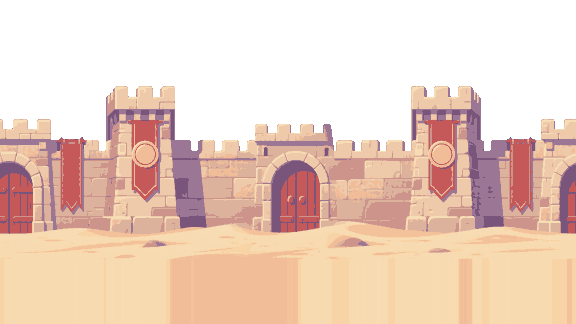
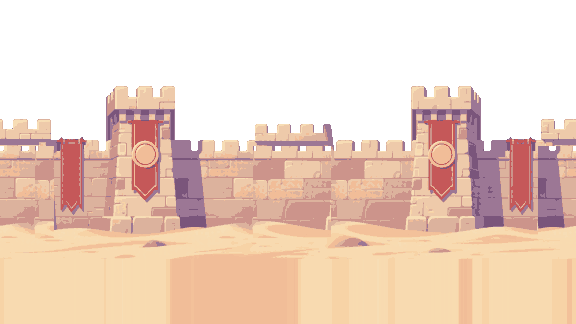
Queue row 8c done: the City Gates are a passage the hero walks through (D314, D315)
A shared gate_passage.tscn replaces the D258 facade: generated towers and
bridge drawn over the hero (z 20), the darker passage wall with both gate
leaves open behind him, a warm light toward the City. The same scene stands in
CityGates and at the City's west end; the cell edge falls inside the passage,
so the room change happens under the bridge. The painted gates in the wall
plane are walled up (comfy_backdrop.py patch); guards and the fight's spawn
points moved west of the towers. verify_city_gates_raid [8] drives real
move_right through the passage into the City.

Claude-Session: https://claude.ai/code/session_01A2gnDWaoeJGbj3GPH4dnCF

Changed region(s): [[0.4375, 0.4321, 0.5938, 0.7407], [0.0, 0.4321, 0.0938, 0.7407], [0.9062, 0.4321, 1.0, 0.7407]]

diff --git a/Scripts/Tools/comfy_backdrop.py b/Scripts/Tools/comfy_backdrop.py
@@ -149,31 +149,55 @@ LAYERS = {
         fill=True,
         haze=0.15,
         colors=14,
+        # намальовані ворота в мурі — за брамою-проходом (D314) читались як друга брама: замуровані стіною поруч
+        patch=[(333, 253, 78, 146, 238), (180, 538, 92, 146, 238)],
         prompt="a massive sandstone city wall with crenellations and two tall square gate towers flanking a big arched "
         "wooden gate, long red banners with a plain golden disc with a raised rim, the wall stands directly on bare sand, spanning the full width and reaching the bottom "
         f"edge, {CHROMA}",
     ),
-    # Ворота міста (BACKLOG feedback 18): окремий предмет у кінці дороги — до нього біжать бандити.
-    "Gates/gen_gate": dict(
-        seed=61,
+    # Брама як прохід (черга 8c, D314): герой іде крізь неї. Передній шар — дві вежі й міст над проходом, малюється
+    # над героєм; прохід між ними прозорий до самої землі (open). У CityGates і в City стоїть та сама картинка: межа
+    # кімнат — на ~70 % проходу. Замінила gen_gate (D258) — фасад брами, що читався як задник.
+    "Gates/gen_passage_front": dict(
+        seed=83,
         rows=220,
         top=0,
         seam="none",
         trim=True,
-        holes=True,  # прохід за відчиненими стулками ключ вирізав наскрізь
-        cut=(138, 446),  # лише брама з вежами: стіни обабіч обриваються посеред кімнати
-        keep=183,  # нижче — бруківка, яку модель домальовує під брамою
+        open=True,  # прохід під мостом — прозорий до низу: за героєм видно gen_passage_back
+        cut=(57, 521),  # лише вежі й міст: стіни обабіч накривали б бій на дорозі
+        keep=204,  # нижче — пісок, який модель стелить під вежами
         key="green",
         shade=0,
         fill=False,
         haze=0,
         colors=16,
         quant="octree",
-        prompt="one single grand desert city gatehouse: two tall square sandstone towers with crenellated tops flanking "
-        "a high pointed arch, the heavy wooden gate doors standing open showing a dark passage, long red banners with a "
-        "plain golden disc with a raised rim hanging on the towers, carved ornaments around the arch, standing alone in "
-        "the middle of the frame with empty space on both sides, its base resting on the bottom edge, warm light on the "
-        f"top, cool violet shadows in the recesses, {CHROMA}",
+        prompt="one single massive desert city gateway frame seen straight on as a flat elevation with no perspective: two "
+        "thick square sandstone towers with crenellated tops standing at the far left edge and at the far right edge, joined "
+        "high above by a thick straight crenellated stone wall bridge with a row of carved stone blocks along its underside, "
+        "the wide space between the two towers under the bridge completely empty and open down to the ground, showing the "
+        "flat background through it, red banners with a plain golden disc with a raised rim on the towers, filling the full "
+        f"width of the frame, the towers resting on the bottom edge, warm light on the top, cool violet shadows, {CHROMA}",
+    ),
+    # Стіна проходу за героєм: відчинені стулки брами, смолоскип; у сцені темніша (modulate) і обрізана по проходу.
+    "Gates/gen_passage_back": dict(
+        seed=85,
+        rows=220,
+        top=0,
+        seam="none",
+        crop=True,
+        key=None,
+        shade=0,
+        fill=False,
+        haze=0,
+        colors=16,
+        quant="octree",
+        prompt="a perfectly flat straight-on swatch of an old sandstone block wall in deep cool violet shadow, large "
+        "rectangular stone blocks laid in even horizontal rows filling the whole frame edge to edge, a heavy brown wooden "
+        "gate door leaf with iron bands standing open and lying flat against the wall on the left third, a small iron wall "
+        "torch with a warm orange flame casting a soft warm glow on the stones in the middle, a strip of flat paving stones "
+        "along the bottom edge, no perspective, no depth, no arches",
     ),
     "City/gen_far": dict(
         seed=61,
@@ -684,7 +708,9 @@ def shrink(img, key, spill=0, block=SCALE):
     if key:
         bg = np.median(img[:24].reshape(-1, 3), axis=0)
         a = (np.linalg.norm(img - bg, axis=2) > KEY_DISTANCE).astype(np.float32)
-    if spill and key == "green":  # тінь, яку модель кладе на зелене тло (оливкова), — геть
+    if (
+        spill and key == "green"
+    ):  # тінь, яку модель кладе на зелене тло (оливкова), — геть
         a *= img[..., 1] - np.maximum(img[..., 0], img[..., 2]) < spill
     elif spill:
         a *= np.minimum(img[..., 0], img[..., 2]) - img[..., 1] < spill
@@ -807,7 +833,15 @@ if __name__ == "__main__":
         opaque[layer["top"] : layer["top"] + len(strip)] = strip_opaque
         if layer["fill"]:
             rgb, opaque = fill_down(rgb, opaque)
-        if layer.get("holes"):  # дірки всередині предмета — найтемнішим його кольором (темний прохід)
+        if layer.get(
+            "open"
+        ):  # прохід, вирізаний ключем, — прозорий і нижче, до низу (там модель домалювала далечінь)
+            hole = holes(opaque)
+            for x in np.nonzero(hole.any(axis=0))[0]:
+                opaque[np.argmax(hole[:, x]) :, x] = False
+        if layer.get(
+            "holes"
+        ):  # дірки всередині предмета — найтемнішим його кольором (темний прохід)
             hole = holes(opaque)
             rgb[hole] = rgb[opaque][np.argmin(rgb[opaque].sum(axis=1))]
             opaque = opaque | hole
@@ -820,21 +854,33 @@ if __name__ == "__main__":
             out = out[layer["top"] : layer["top"] + layer["rows"]]
         if layer.get("keep"):  # рядки шару від keep і нижче — прозорі
             out[layer["keep"] :, :, 3] = 0
-        if layer.get("cut"):  # стовпці шару x0..x1 — решта прозора (обрізані стіни обабіч брами)
+        if layer.get(
+            "cut"
+        ):  # стовпці шару x0..x1 — решта прозора (обрізані стіни обабіч брами)
             out[:, : layer["cut"][0], 3] = 0
             out[:, layer["cut"][1] :, 3] = 0
-        if layer["key"] == "green":  # бірюзова кромка — відсвіт зеленого тла: у найближчий не-зелений колір шару
+        if (
+            layer["key"] == "green"
+        ):  # бірюзова кромка — відсвіт зеленого тла: у найближчий не-зелений колір шару
             px = out[..., :3].astype(int)
-            tinted = (out[..., 3] > 0) & (px[..., 1] > px[..., 0] + 15) & (px[..., 1] >= px[..., 2] - 10)
+            tinted = (
+                (out[..., 3] > 0)
+                & (px[..., 1] > px[..., 0] + 15)
+                & (px[..., 1] >= px[..., 2] - 10)
+            )
             clean = (out[..., 3] > 0) & ~tinted
             if tinted.any() and clean.any():
                 pal = np.unique(px[clean], axis=0)
                 d = np.linalg.norm(px[tinted][:, None, :] - pal[None], axis=2)
                 out[tinted, :3] = pal[d.argmin(axis=1)]
+        for sx, dx, w, y0, y1 in layer.get("patch", []):  # латка: стовпці sx.. на місце dx.. (по колу — шар безшовний)
+            out[y0:y1, (dx + np.arange(w)) % W] = out[y0:y1, (sx + np.arange(w)) % W]
         if layer.get("trim"):  # предмет, а не екран: лише його рамка
             ys, xs = np.nonzero(out[..., 3])
             out = out[ys.min() : ys.max() + 1, xs.min() : xs.max() + 1]
-        if layer.get("shadow"):  # предмет стоїть на землі: власна тінь-овал найтемнішим кольором під його низом
+        if layer.get(
+            "shadow"
+        ):  # предмет стоїть на землі: власна тінь-овал найтемнішим кольором під його низом
             h, w = out.shape[:2]
             sh = layer["shadow"]
             canvas = np.zeros((h + sh, w + 2 * sh, 4), np.uint8)
@@ -842,7 +888,9 @@ if __name__ == "__main__":
             dark = opaque_px[np.argmin(opaque_px.astype(int).sum(axis=1))]
             yy, xx = np.mgrid[: h + sh, : w + 2 * sh]
             # тінь щільно під низом предмета (ледь виглядає з-під нього), а не смугою нижче — інакше він висить
-            ellipse = ((xx - (w + 2 * sh) / 2) / (w * 0.45)) ** 2 + ((yy - (h - sh)) / (sh * 0.75)) ** 2 <= 1
+            ellipse = ((xx - (w + 2 * sh) / 2) / (w * 0.45)) ** 2 + (
+                (yy - (h - sh)) / (sh * 0.75)
+            ) ** 2 <= 1
             canvas[ellipse] = (*dark, 255)
             body = out[..., 3] > 0
             canvas[:h, sh : sh + w][body] = out[body]

diff --git a/design/play_feedback_queue.md b/design/play_feedback_queue.md
@@ -44,6 +44,7 @@ NPC tasks in the Journal.
 5 NPC idle activities (D295): blacksmith hammers (sparks, anvil prop), merchant counts coins, grandfather smokes a pipe,
 priestess prays, witch reads, dervish whirls, guards shift and look around; random rests; talk pose turned to the hero
 while talking, back to work after (`NpcActivity.gd`, `verify_npc_activity.gd`).
+8c the City Gates are a passage the hero walks through: towers and bridge drawn over him, the darker passage wall with open leaves behind, the room change inside it (D314, D315).
 8b the caravan merchant moves on to the City after the gates fight and trades there (D311); "The Helmet" text rewritten (D312); Lab speakers voiced + in the codex (D313).
 23 (DesertRoad part, D296–D299): the road is 6 cells — dunes, mesa, broken caravan, approach — with three trigger-zone fights,
 three ledge pickups that stay picked, generated landmarks; XP curve and rewards in data, level 5 on the last City Gates kill;
@@ -69,7 +70,7 @@ companion and gift hints, attack hint on the first fight, the skill bar in the e
 | 8 | ~~**23** DesertRoad grows; XP curve lands level 5 at the City~~ — done (D296–D299, B79, [[world_expansion_plan]]); the Laboratory part goes with row 9 | |
 | 9 | **16 + 17 + 6 + 23 (Laboratory)** — split into 9.1–9.8 (Sapega 2026-10-21: too long for one agent). Plan: [[lab_story_plan]] (beats, flags, rooms, slices), bosses [[lab_boss_plan]] (D301/D302), helpers [[cutscene_plan]] (D308). Done: the plan, B79 leftover, boss art (D309), draft `.dqd` lines + speakers. **WIP code is in `git stash` "queue row 9 WIP drafts"** (`git stash list`; apply with `git stash apply stash@{N}` — written, never run: `Cutscene.gd`, skip prompt, `BossEnemy`/`BossLogic`/hazards, boss bar, `MayorHall.gd`/`LabCells.gd`/`LabBoss.gd`, the queue rewrite of `City_MayorHall.dqd` and the cloak line in `Laboratory_AfterBoss.dqd`). Each sub-row: one agent, own commits + verify + captures `fb17_*`. | one story block |
 | 8b | ~~**City merchant + blacksmith task text** (Sapega 2026-10-21 «треба мерчанта додати в місто і текст квеста кузнеця переписати»): a merchant NPC in the City (shop, idle activity D295, arrival like D294 if it fits; the `[PLACEHOLDER]` City_Merchant trigger) and the blacksmith's task text («The Helmet», D175/D293 — quests.json + its .dqd lines) rewritten: clear goal, his voice, the lore.~~ — done (D311–D313: the road merchant follows his caravan into the City and trades there, the caravan task hands in to him; "The Helmet" has a backstory + a clear goal; babble voices and codex for the five Lab speakers) |
-| 8c | **Walking INTO the City Gates** (Sapega 2026-10-21 «треба щоб було враження, що я входжу в браму, а не просто брама»): the gatehouse (D258 `Gates/gen_gate`) must read as a passage the hero walks through — the arch's front pillars/lintel as a foreground layer drawn over the hero, a darker vaulted passage behind him, open gate leaves, light at the far end; the transition to the City happens inside the passage (the City side shows the same gate from within). Generated art (comfy-backdrop), the old painted gates behind the new gatehouse removed (Open leftover). Next after B80. |
+| 8c | ~~**Walking INTO the City Gates** (Sapega 2026-10-21 «треба щоб було враження, що я входжу в браму, а не просто брама»): the gatehouse (D258 `Gates/gen_gate`) must read as a passage the hero walks through — the arch's front pillars/lintel as a foreground layer drawn over the hero, a darker vaulted passage behind him, open gate leaves, light at the far end; the transition to the City happens inside the passage (the City side shows the same gate from within). Generated art (comfy-backdrop), the old painted gates behind the new gatehouse removed (Open leftover).~~ — done (D314, D315: a shared `gate_passage.tscn` — towers + bridge over the hero, the passage wall with open leaves behind him, warm light toward the City; the room edge falls inside the passage, the City shows the same gate from within; painted gates in the wall plane walled up) |
 | 9.1 | ~~**Cutscene helper, HUD hidden, hold-to-skip** ([[lab_story_plan]] slice 1, D308). First step: apply the stash, keep only `Cutscene.gd` + `cutscene_skip_prompt.*`; add `cutscene_skip` (Tab / pad Y) in `CombatInput.gd` and `DialogueManager.skip_line()`; move Canyon meditation/descent, CityGates raid and `NpcArrival` onto it; `verify_cutscene.gd` (real hold of Tab and of pad Y) + `verify_canyon_exit`, `verify_city_gates_raid`, `verify_npc_arrival`/`blacksmith`.~~ — done (D308; B80 found on the way) | the base for every beat below |
 | 9.2 | **Bosses core + the two boss scenes** (slice 2, D301/D302). First step: from the stash take `BossEnemy`, `BossLogic`, `Hazards/`, `boss_health_bar.*`; add `DefaultEnemy._make_logic()`, `EnemyLogic.start_knockback(…, time)`, `Player.defeat_handler`; generate the hazard FX with `comfy_fx.py` (fireball, fire pillar + floor mark, slam shockwave, explosion, wall burst, sleep gas, wall hole); scenes `Scenes/Characters/Bosses/brass_collector.tscn`, `fire_djinn.tscn` on the D309 sheets (READMEs list the frame rows); bestiary entries; delete `DemoBoss.gd`; `verify_bosses.gd`. | needs 9.1 only for nothing — can go first |
 | 9.3 | **Mayor Hall** — queue (D255), wall burst, Brass Collector fight, both outcomes → `LabCells` (slice 3, D300). First step: take `MayorHall.gd` + `City_MayorHall.dqd` from the stash; build the hall nodes (Queue spots with the three `CompanionNPC`s, `QueueTrigger`, `WallHole`, `BarrierWest`, `Marks/*`, the boss); voices for the new speakers in `sound_events.json` → `voices`; `verify_mayor_hall.gd` replaces `verify_mayor_hall_teleport.gd` (win: XP + loot; lose: no Game Over). Until 9.4 lands the teleport target can stay `Laboratory` | after 9.1, 9.2 |
@@ -85,14 +86,14 @@ companion and gift hints, attack hint on the first fight, the skill bar in the e
 
 - Q64 — the prisoner's shout before the fire djinn (default: an incantation in an invented language).
 - Q66 — respec rules and class-stage names: defaults applied as D280–D282 (oath permanent, respec 10 coins × level, names drafts).
-- Agent-made calls Sapega has not confirmed: D308 (cutscene skip = hold Tab / pad Y 1 s, the beat fast-forwards ×8 with lines paged; HUD hidden in every cutscene), D296–D299 (the 6-cell road and its sections, XP curve 100 + 50 × (level − 1) and rewards melee 30 / fast 25 / tank 70, the three ledge items, the generated landmarks), D295 (the NPC activities, the anvil standing behind the Blacksmith, the grandfather in his own scene), D291–D294 (NPC z, shop/forge art and the Merchant moved to x 1120, the two tasks and
+- Agent-made calls Sapega has not confirmed: D314, D315 (the gate passage layout, guards and fight spots moved west), D308 (cutscene skip = hold Tab / pad Y 1 s, the beat fast-forwards ×8 with lines paged; HUD hidden in every cutscene), D296–D299 (the 6-cell road and its sections, XP curve 100 + 50 × (level − 1) and rewards melee 30 / fast 25 / tank 70, the three ledge items, the generated landmarks), D295 (the NPC activities, the anvil standing behind the Blacksmith, the grandfather in his own scene), D291–D294 (NPC z, shop/forge art and the Merchant moved to x 1120, the two tasks and
   their draft `.dqd` lines `Merchant_Arrival`, `Merchant_Caravan_*`, `Smith_Arrival`, the arrival cutscene), D286–D290 (Game Menu batch: potion use without a target choice, party = hero + companions, slot picker, tutorial windows pause the game and are On by default, codex texts / bestiary names are English drafts), D256, D257, D258, D261, D262, D264–D270, D271 (skill wind-ups 0.6/0.35/0.5 s and their looks), D272 (skill slots on pad RT/R3/L3/Back), D273 (generated anime slash/cut/skill effects), D279–D285 (skill trees, the oath and its keepers, respec price, passive stats, level cap; draft `.dqd` lines `City_Oath_*`) (combat values, the "freeze" read as a
   mechanic, no stamina, bindings R-click/R/pad B heavy and Ctrl/middle mouse/pad LB block registered in code); the gate guard's draft line; text speed 24 letters/s and no Skip.
 - Game Menu batch leftovers: saves made before 2026-10-21 lack `seen_tutorials` / `journal` and fail loudly on load (no-fallback rule; the two local dev saves were migrated, backups `*.bak-before-D289`); codex portraits and the Figma class card not built (no art / data); hint topics have no screenshot; the bottom-bar action badges (LB / A / B) are static pad glyphs — item 24 audit.
 - Item 14 leftovers: enemies drop only coins — no material loot exists for an "ore from enemies" task (would need a loot plan);
   the arrival cutscene (`NpcArrival.gd`) is reusable for other NPC meetings; ~~the raid/meditation camera code is still inline~~ — on `Cutscene.gd` since row 9.1.
 - Known leftovers: ~~cutscenes have no skip and keep the HUD; camera/walk cutscene code is inline in room scripts~~ — done in row 9.1 (D308); the Village abduction still uses its own fade/await chain (not a staged beat, not moved); 12 `.dqd` files tag the speaker in the text instead of the speaker field; the
-  assist guard still uses pack knight art; the old painted gates still show behind the new gatehouse.
+  assist guard still uses pack knight art; ~~the old painted gates still show behind the new gatehouse~~ — walled up with row 8c (D315).
 - Row 9.1 leftovers: ~~**B80**~~ — fixed 2026-10-21: the hero (kinematic `CharacterBody2D`) jumped in the physics server only on the next step, so the new room's `Area2D`s saw him at his old spot (the `RaidTrigger` fired 200 px away). Every room-change placement now goes through `MetSysGame.place_player()` (body moved in the server at once); `verify_cutscene` no longer steps off, regression `verify_city_gates_raid` [7].
 - Item 23 leftovers: ~~a New Game in the same session keeps the XP of the last one~~ — fixed 2026-10-21 (B79 note: XP, player state, roster and bag reset at a New Game); the ledge pickups show their icon in a grey frame (the `ItemPickup` look, first ones placed); `verify_combat_flow` [1] failed once and passed on re-run (timing flake).
 - Unpushed: ~92 commits on `feature/backlog` since `origin/main`.

diff --git a/design/figma_decision_register.md b/design/figma_decision_register.md
@@ -471,3 +471,5 @@ carry that bug.
 | D311 | GAP | **The caravan merchant moves on to the City** (queue row 8b, Sapega 2026-10-21 «треба мерчанта додати в місто»; agent call, Sapega to confirm; amends D293, D154 and the 2026-10-15 "left as is"): not a second trader but **the same road merchant** — the bandits drove his caravan to the City Gates (D293), so once `city_gates_fight_complete` is set he has followed his goods into the City. One character, one `task_giver`, in one place: `NpcBase` got `shown_with_flag` / `gone_with_flag` (the NPC frees itself in `_ready` when it is not there); the Desert Road `Merchant` has `gone_with_flag = city_gates_fight_complete` (his shop stands closed), the new City `Merchant` (`merchant.tscn`, x 800 on the floor line, between the save point and the forge) `shown_with_flag` the same. He **replaces the `[PLACEHOLDER]` `StateChangeTrigger_Merchant`** at that spot (it auto-played a greeting with no merchant standing there, on every room entry); `City_Merchant.dqd` is now his Talk, a `[ЧЕРНЕТКА]` draft. "The Stolen Caravan" is now handed in **to him in the City** (objective: "…then find the Merchant in the City, just past the gates"; give/done lines rewritten as drafts). Stock `merchants.json` → `city_merchant`: what a caravan carries to a city — Potion, Hi-Potion, Ether, Herb, Mana Crystal, Iron/Copper/Silver Ingot, Leather, Wood Plank, Leather Armor, Iron Shield (no weapons: the Blacksmith sells them). His D295 coin-counting activity, talk pose, z behind the hero (D291) and voiced greeting on a hero-started talk (D277) come with the scene. No arrival cutscene: he has no building in the City to walk out of — a stall would be a new generated plane (D234), not done. `verify_npc_arrival.gd` [6]. |
 | D312 | GAP | **"The Helmet" rewritten** (queue row 8b «текст квеста кузнеця переписати»; agent call, Sapega to confirm; D175 mechanics and the 88-coin refund unchanged): `quests.json` tasks got a `description` (the backstory) next to the `objective` (what to do); the Journal's Tasks entry shows both, the goal as "Goal: …". The Helmet — *description:* "The City's blacksmith saw what the bandits' maces left of the gate guards. He will not sell Kusakam a helmet: one you forged yourself sits better than one you bought. His word holds like a contract before the god of deals: show him the finished helmet and he pays back every coin it cost." *objective:* "Buy 2 Iron Ingots and 1 Leather from the Merchant past the City gates, forge an Iron Helmet at the Blacksmith's anvil (12 coins), then show it to the Blacksmith". `Smith_Helmet_Give` / `Smith_Helmet_Done` rewritten in his voice (gruff, short, the gate raid, the merchant from the caravan, his word as a contract — the god of contracts is Уризен's, lore.md), Ukrainian, `[ЧЕРНЕТКА]`. The Caravan and Enchantment tasks got a one-line description too. `verify_npc_arrival.gd` [4], `verify_tasks.gd`. |
 | D313 | TECH | **Babble voices and codex entries for the five Laboratory speakers** (suite fix for commit 5e79691c; agent call, Sapega to confirm): `make_babble.py` voices **brass_collector** (very low, harsh, doubled — brass), **fire_djinn** (low, breathy, falling, a choir of three), **malik** (smooth mid voice rising at the end — the talker), **prisoner** (weak and breathy), **scientist** (quick, higher); mapped in `sound_events.json` → `voices`. Codex (`journal_people.json`): Malik, Prisoner, Alchemist get entries from lore.md only (shown once met, D290); the two bosses are `not_listed` — they belong to the Bestiary (row 9.2). |
+| D314 | OVERRIDE | **City Gates: the gatehouse is a passage the hero walks through** (queue row 8c, Sapega 2026-10-21 «треба щоб було враження, що я входжу в браму, а не просто брама»; agent call, Sapega to confirm). The D258 façade (`Gates/gen_gate`, deleted) is replaced by a shared scene `Scenes/Backgrounds/gate_passage.tscn` of two generated layers (`comfy_backdrop.py`, Qwen-Image): `Front` — two crenellated towers with banners joined by a stone bridge, the opening under the bridge keyed transparent down to the ground (new tool field `open`), **z 20, over the hero**; `Back` — the passage wall with both gate leaves standing open and a torch, cropped to the opening, modulate (0.62, 0.6, 0.74) so it is darker, z −1; `Light` — an additive warm gradient on the wall growing toward the east (the City). Picked over a perspective tunnel (two candidates looked into the screen, wrong for a hero walking east). The same scene stands in **both rooms**: CityGates at (1321, 115), City at (−407, 127) — the MetSys cell edge (x 1728) falls ~70 % into the opening, so the room change happens inside the passage and the City's west end shows the same gate from within (the hero arrives under the bridge, walks out behind the east tower). The hero is hidden behind each tower for ~200 px — the "walking in" beat. Transition unchanged (cell edge [7,3] → [8,3]). Test: `verify_city_gates_raid` [8] (z order, tower pixels over the hero on the way in, bridge over him inside, real `move_right` loads the City inside the passage). |
+| D315 | GAP | **City Gates: the painted gates in the wall plane walled up; guards and fight moved west of the towers** (row 8c; agent call, Sapega to confirm). `Gates/gen_mid` (the ×0.7 wall) had two arched red gates that read as a second gate behind the new one — the tool's new `patch` field copies plain wall over both (cached generation, no re-run). The gate guards stand outside the arch at x 1200 / 1270 (were 1418 / 1628, now inside the towers), behind the hero (D291); the fight's spawn points move to 980 / 1060 / 1140 and the raid camera look to x 1200 so the bandits do not fight behind a tower. |

diff --git a/SampleProject/Assets/Backgrounds/Gates/README.md b/SampleProject/Assets/Backgrounds/Gates/README.md
@@ -1,4 +1,4 @@
-# City gates art (D237)
+# City gates art (D237, D314)
 
 **AI-generated** by `Scripts/Tools/comfy_backdrop.py` (layers `Gates/*`): the local ComfyUI with **Qwen-Image**
 (Alibaba Qwen, Apache 2.0) and the Qwen-Image-Lightning LoRA (lightx2v, Apache 2.0), brought down to the game's
@@ -6,8 +6,9 @@ pixel (576×324, ×1.5 in the game) and a few colours. A Steam release has to di
 
 | File | Use |
 |---|---|
-| `gen_mid.png` | CityGates: Parallax2D ×0.7 — the city wall, two gate towers, the arched gate, red banners with a plain golden disc (coat of arms: Q57); near blur |
-| `gen_gate.png` | CityGates → `Gate` (×1.5, at the road's end, D258) — one gatehouse, two towers with banners, the open gate; the passage the key cut through is filled dark (`holes`), the side walls cut off (`cut`) |
+| `gen_mid.png` | CityGates: Parallax2D ×0.7 — the city wall, two gate towers, red banners with a plain golden disc (coat of arms: Q57); near blur. Its two painted gates are walled up by `patch` (plain wall copied over them, D315) |
+| `gen_passage_front.png` | `Scenes/Backgrounds/gate_passage.tscn` → `Front` (×1.5, z 20 — over the hero, D314): two towers with banners joined by a stone bridge; the opening under the bridge keyed transparent down to the ground (`open`), the side walls cut off (`cut`). The same scene stands in CityGates and at the City's west end |
+| `gen_passage_back.png` | `gate_passage.tscn` → `Back` (×1.5, z −1, darkened by modulate, cropped to the opening): the passage wall with both gate leaves standing open and a torch (`crop` — a 576×220 strip) |
 
 Behind them: `desert_backdrop_open.tscn` — the pack's sky, the Canyon's generated clouds and mesas (D235),
 the pack's ground strip.
